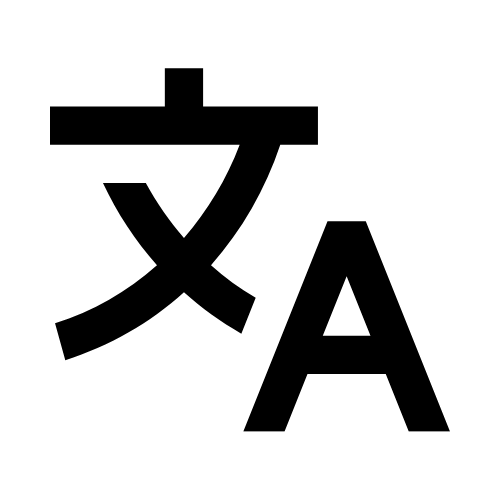
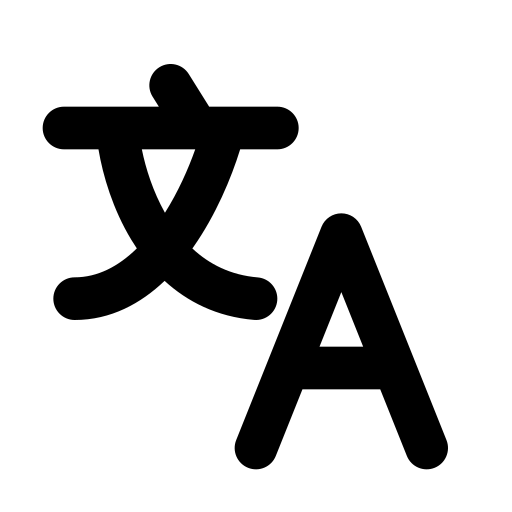
Modificamos y damos estilos a la barra de navegación del administrador

Changed region(s): [[0.06, 0.12, 0.9, 0.93], [0.09, 0.42, 0.39, 0.72], [0.63, 0.54, 0.75, 0.69]]

diff --git a/frontend/src/components/NavBar.vue b/frontend/src/components/NavBar.vue
@@ -57,21 +57,29 @@ const logout = () => {
           <img src="../assets/logos/Logo_gr.png" alt="Logo" class="imagen-logo" />
         </router-link>
 
-        <template v-if="userRole === 'user'">
+        <template v-if="userRole">
           <div class="nav-links">
             <router-link to="/explorar" class="nav-item">
               <svg viewBox="0 0 24 24" fill="none" stroke="currentColor" stroke-width="2" class="nav-icon"><rect x="3" y="3" width="7" height="7"></rect><rect x="14" y="3" width="7" height="7"></rect><rect x="14" y="14" width="7" height="7"></rect><rect x="3" y="14" width="7" height="7"></rect></svg>
               Explorar
             </router-link>
-            <router-link to="/mis-productos" class="nav-item">
+            
+            <router-link v-if="userRole === 'user'" to="/mis-productos" class="nav-item">
               <svg viewBox="0 0 24 24" fill="none" stroke="currentColor" stroke-width="2" class="nav-icon"><path d="M21 16V8a2 2 0 0 0-1-1.73l-7-4a2 2 0 0 0-2 0l-7 4A2 2 0 0 0 3 8v8a2 2 0 0 0 1 1.73l7 4a2 2 0 0 0 2 0l7-4A2 2 0 0 0 21 16z"></path><polyline points="3.27 6.96 12 12.01 20.73 6.96"></polyline><line x1="12" y1="22.08" x2="12" y2="12"></line></svg>
               Mis Productos
             </router-link>
+            
+            <template v-if="userRole === 'admin'">
+              <router-link to="/admin" class="nav-item">
+                <svg viewBox="0 0 24 24" fill="none" stroke="currentColor" stroke-width="2" class="nav-icon"><path d="M12 22s8-4 8-10V5l-8-3-8 3v7c0 6 8 10 8 10z"></path></svg>
+                Admin
+              </router-link>
+            </template>
           </div>
         </template>
       </div>
 
-      <div class="navbar-centro" v-if="userRole === 'user'">
+      <div class="navbar-centro" v-if="userRole">
         <div class="search-wrapper">
           <svg viewBox="0 0 24 24" fill="none" stroke="#6b7280" stroke-width="2" class="search-icon"><circle cx="11" cy="11" r="8"></circle><line x1="21" y1="21" x2="16.65" y2="16.65"></line></svg>
           <input type="text" placeholder="Buscar productos..." class="search-input" />
@@ -80,10 +88,17 @@ const logout = () => {
 
       <div class="navbar-derecha">
         <div class="idioma-wrapper">
-          <div class="iconos-container" @click.stop="showDropdown = !showDropdown">
-            <img src="../assets/iconos/idioma.png" class="icono-idioma" />
-            <img src="../assets/iconos/idioma-hover.png" class="icono-hover" />
+          <div class="action-btn" @click.stop="showDropdown = !showDropdown">
+            <svg viewBox="0 0 24 24" fill="none" stroke="currentColor" stroke-width="2" stroke-linecap="round" stroke-linejoin="round">
+              <path d="M2 5h12"></path>
+              <path d="M7 2h1"></path>
+              <path d="m4 14 6-6 2-3"></path>
+              <path d="m5 8 6 6"></path>
+              <path d="m22 22-5-10-5 10"></path>
+              <path d="M14 18h6"></path>
+            </svg>
           </div>
+          
           <transition name="fade">
             <div v-if="showDropdown" class="dropdown-idiomas">
               <div @click="seleccionarIdioma('esp')" class="opcion-idioma">ESP</div>
@@ -94,21 +109,23 @@ const logout = () => {
         </div>
 
         <div class="acciones">
-          <template v-if="userRole === 'admin'">
-            <div class="cartel admin">👤 {{ $t('nb.adm') }}</div>
-            <button @click="logout" class="boton-salir">{{ $t('nb.out') }}</button>
-          </template>
-
-          <template v-else-if="userRole === 'user'">
-            <router-link to="/vender" class="boton-vender">
+          <template v-if="userRole">
+            <router-link v-if="userRole === 'user'" to="/vender" class="boton-vender">
               <svg viewBox="0 0 24 24" fill="none" stroke="currentColor" stroke-width="2" class="plus-icon"><line x1="12" y1="5" x2="12" y2="19"></line><line x1="5" y1="12" x2="19" y2="12"></line></svg>
               Vender
             </router-link>
             
             <div class="icon-actions-group">
-              <router-link to="/favoritos" class="action-btn"><svg viewBox="0 0 24 24" fill="none" stroke="currentColor" stroke-width="2"><path d="M20.84 4.61a5.5 5.5 0 0 0-7.78 0L12 5.67l-1.06-1.06a5.5 5.5 0 0 0-7.78 7.78l1.06 1.06L12 21.23l7.78-7.78 1.06-1.06a5.5 5.5 0 0 0 0-7.78z"></path></svg></router-link>
-              <router-link to="/carrito" class="action-btn"><svg viewBox="0 0 24 24" fill="none" stroke="currentColor" stroke-width="2"><circle cx="9" cy="21" r="1"></circle><circle cx="20" cy="21" r="1"></circle><path d="M1 1h4l2.68 13.39a2 2 0 0 0 2 1.61h9.72a2 2 0 0 0 2-1.61L23 6H6"></path></svg></router-link>
-              <router-link to="/perfil" class="action-btn"><svg viewBox="0 0 24 24" fill="none" stroke="currentColor" stroke-width="2"><path d="M20 21v-2a4 4 0 0 0-4-4H8a4 4 0 0 0-4 4v2"></path><circle cx="12" cy="7" r="4"></circle></svg></router-link>
+              <template v-if="userRole === 'user'">
+                <router-link to="/favoritos" class="action-btn"><svg viewBox="0 0 24 24" fill="none" stroke="currentColor" stroke-width="2"><path d="M20.84 4.61a5.5 5.5 0 0 0-7.78 0L12 5.67l-1.06-1.06a5.5 5.5 0 0 0-7.78 7.78l1.06 1.06L12 21.23l7.78-7.78 1.06-1.06a5.5 5.5 0 0 0 0-7.78z"></path></svg></router-link>
+                <router-link to="/carrito" class="action-btn"><svg viewBox="0 0 24 24" fill="none" stroke="currentColor" stroke-width="2"><circle cx="9" cy="21" r="1"></circle><circle cx="20" cy="21" r="1"></circle><path d="M1 1h4l2.68 13.39a2 2 0 0 0 2 1.61h9.72a2 2 0 0 0 2-1.61L23 6H6"></path></svg></router-link>
+              </template>
+              
+              <router-link to="/perfil" class="action-btn">
+                <span v-if="userRole === 'admin'"></span>
+                <svg viewBox="0 0 24 24" fill="none" stroke="currentColor" stroke-width="2"><path d="M20 21v-2a4 4 0 0 0-4-4H8a4 4 0 0 0-4 4v2"></path><circle cx="12" cy="7" r="4"></circle></svg>
+              </router-link>
+              
               <button @click="logout" class="action-btn logout-btn"><svg viewBox="0 0 24 24" fill="none" stroke="currentColor" stroke-width="2"><path d="M9 21H5a2 2 0 0 1-2-2V5a2 2 0 0 1 2-2h4"></path><polyline points="16 17 21 12 16 7"></polyline><line x1="21" y1="12" x2="9" y2="12"></line></svg></button>
             </div>
           </template>
@@ -132,7 +149,7 @@ const logout = () => {
   position: sticky;
   top: 0;
   z-index: 100;
-  font-family: -apple-system, BlinkMacSystemFont, "Segoe UI", Roboto, Helvetica, Arial, sans-serif;
+  font-family: "Segoe UI", Helvetica, Arial, sans-serif;
   box-sizing: border-box;
 }
 
@@ -244,30 +261,6 @@ const logout = () => {
 
 .idioma-wrapper {
   position: relative;
-  cursor: pointer;
-}
-
-.iconos-container {
-  display: flex;
-  align-items: center;
-  height: 25px;
-}
-
-.icono-idioma, .icono-hover {
-  height: 25px;
-  width: auto;
-}
-
-.icono-hover {
-  display: none;
-}
-
-.idioma-wrapper:hover .icono-idioma {
-  display: none;
-}
-
-.idioma-wrapper:hover .icono-hover {
-  display: block;
 }
 
 .dropdown-idiomas {
@@ -281,6 +274,7 @@ const logout = () => {
   border: 1px solid #f3f4f6;
   z-index: 1000;
   overflow: hidden;
+  padding: 0.4rem;
 }
 
 .opcion-idioma {
@@ -290,12 +284,14 @@ const logout = () => {
   font-size: 0.9rem;
   cursor: pointer;
   text-align: center;
-  transition: background-color 0.2s;
+  transition: all 0.2s ease;
+  border-radius: 4px;
+  margin: 0.2rem;
 }
 
 .opcion-idioma:hover {
-  background-color: #f9fafb;
-  color: #2563eb;
+  background-color: #2563eb;
+  color: #ffffff;
 }
 
 .acciones {
@@ -345,6 +341,7 @@ const logout = () => {
   padding: 0.5rem;
   border-radius: 6px;
   transition: all 0.2s ease;
+  position: relative;
 }
 
 .action-btn:hover {
@@ -390,29 +387,6 @@ const logout = () => {
   border-radius: 6px;
   font-weight: 600;
   font-size: 0.95rem;
-}
-
-.cartel {
-  padding: 0.5rem 1rem;
-  border-radius: 8px;
-  font-weight: 600;
-  font-size: 0.9rem;
-}
-
-.cartel.admin {
-  background-color: #fef08a;
-  color: #854d0e;
-  border: 1px solid #facc15;
-}
-
-.boton-salir {
-  background-color: transparent;
-  color: #ef4444;
-  border: 1px solid #ef4444;
-  padding: 0.5rem 1rem;
-  border-radius: 6px;
-  cursor: pointer;
-  font-weight: 600;
 }
 
 .fade-enter-active, .fade-leave-active {
